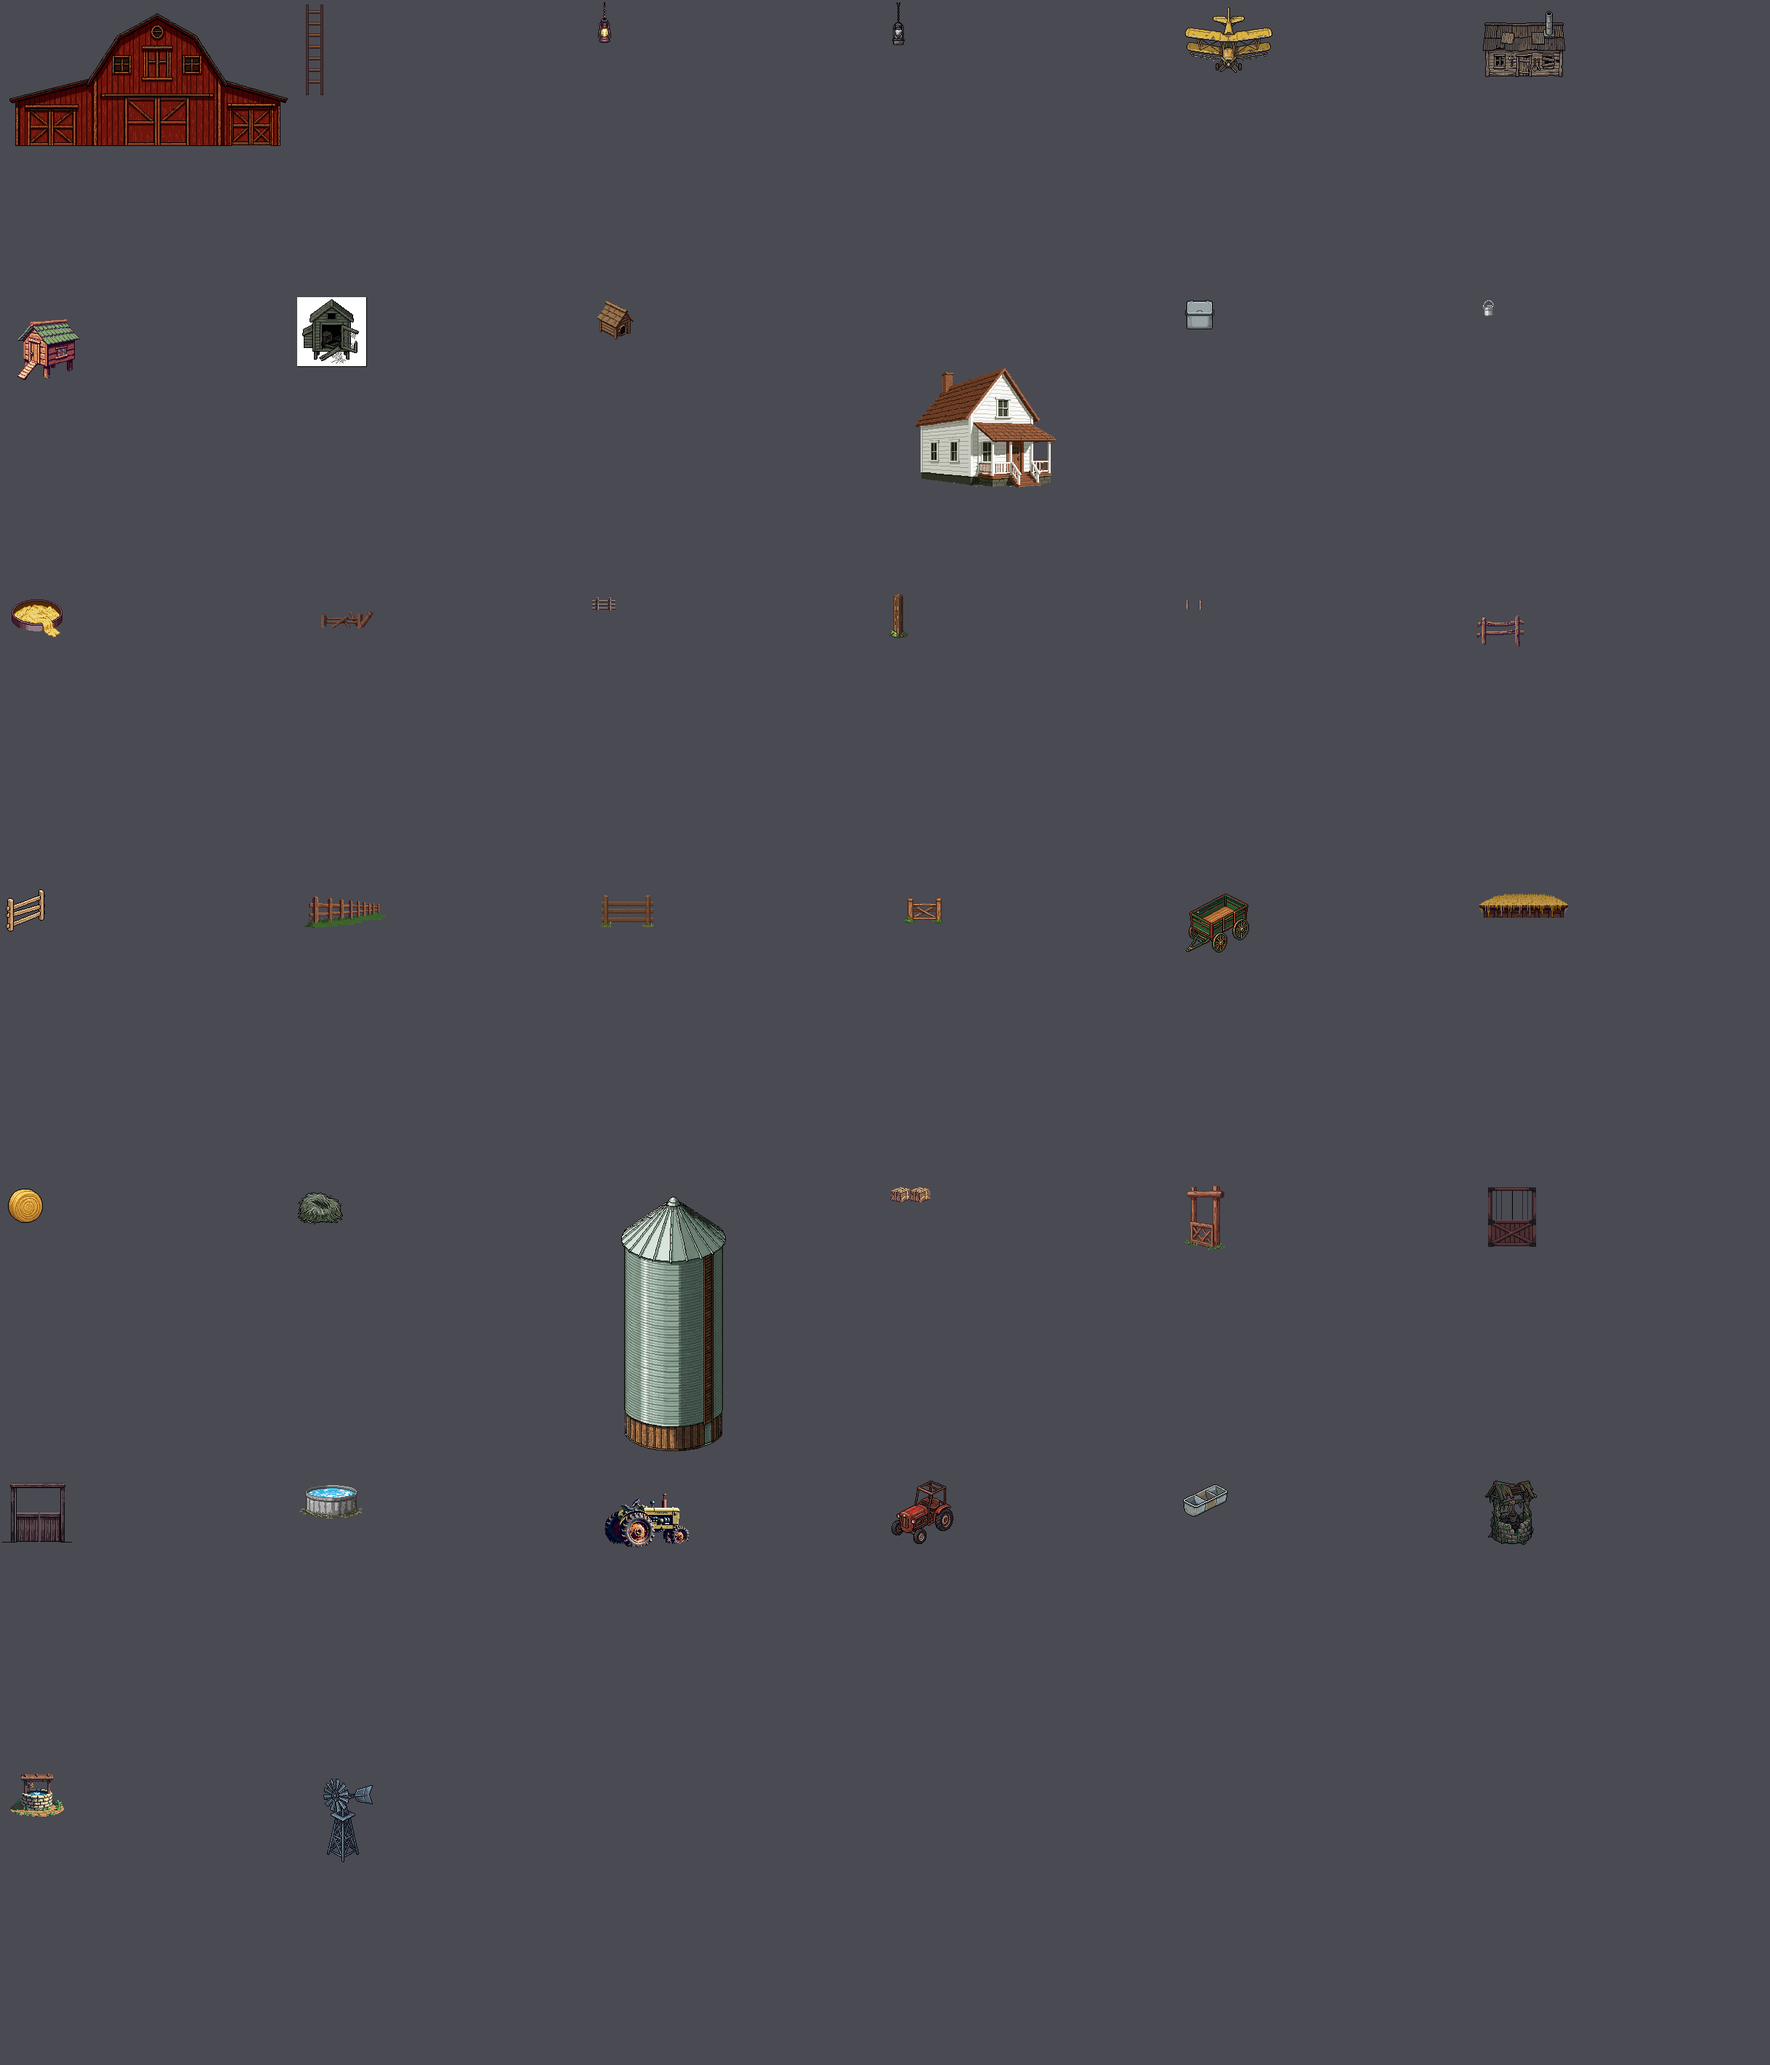
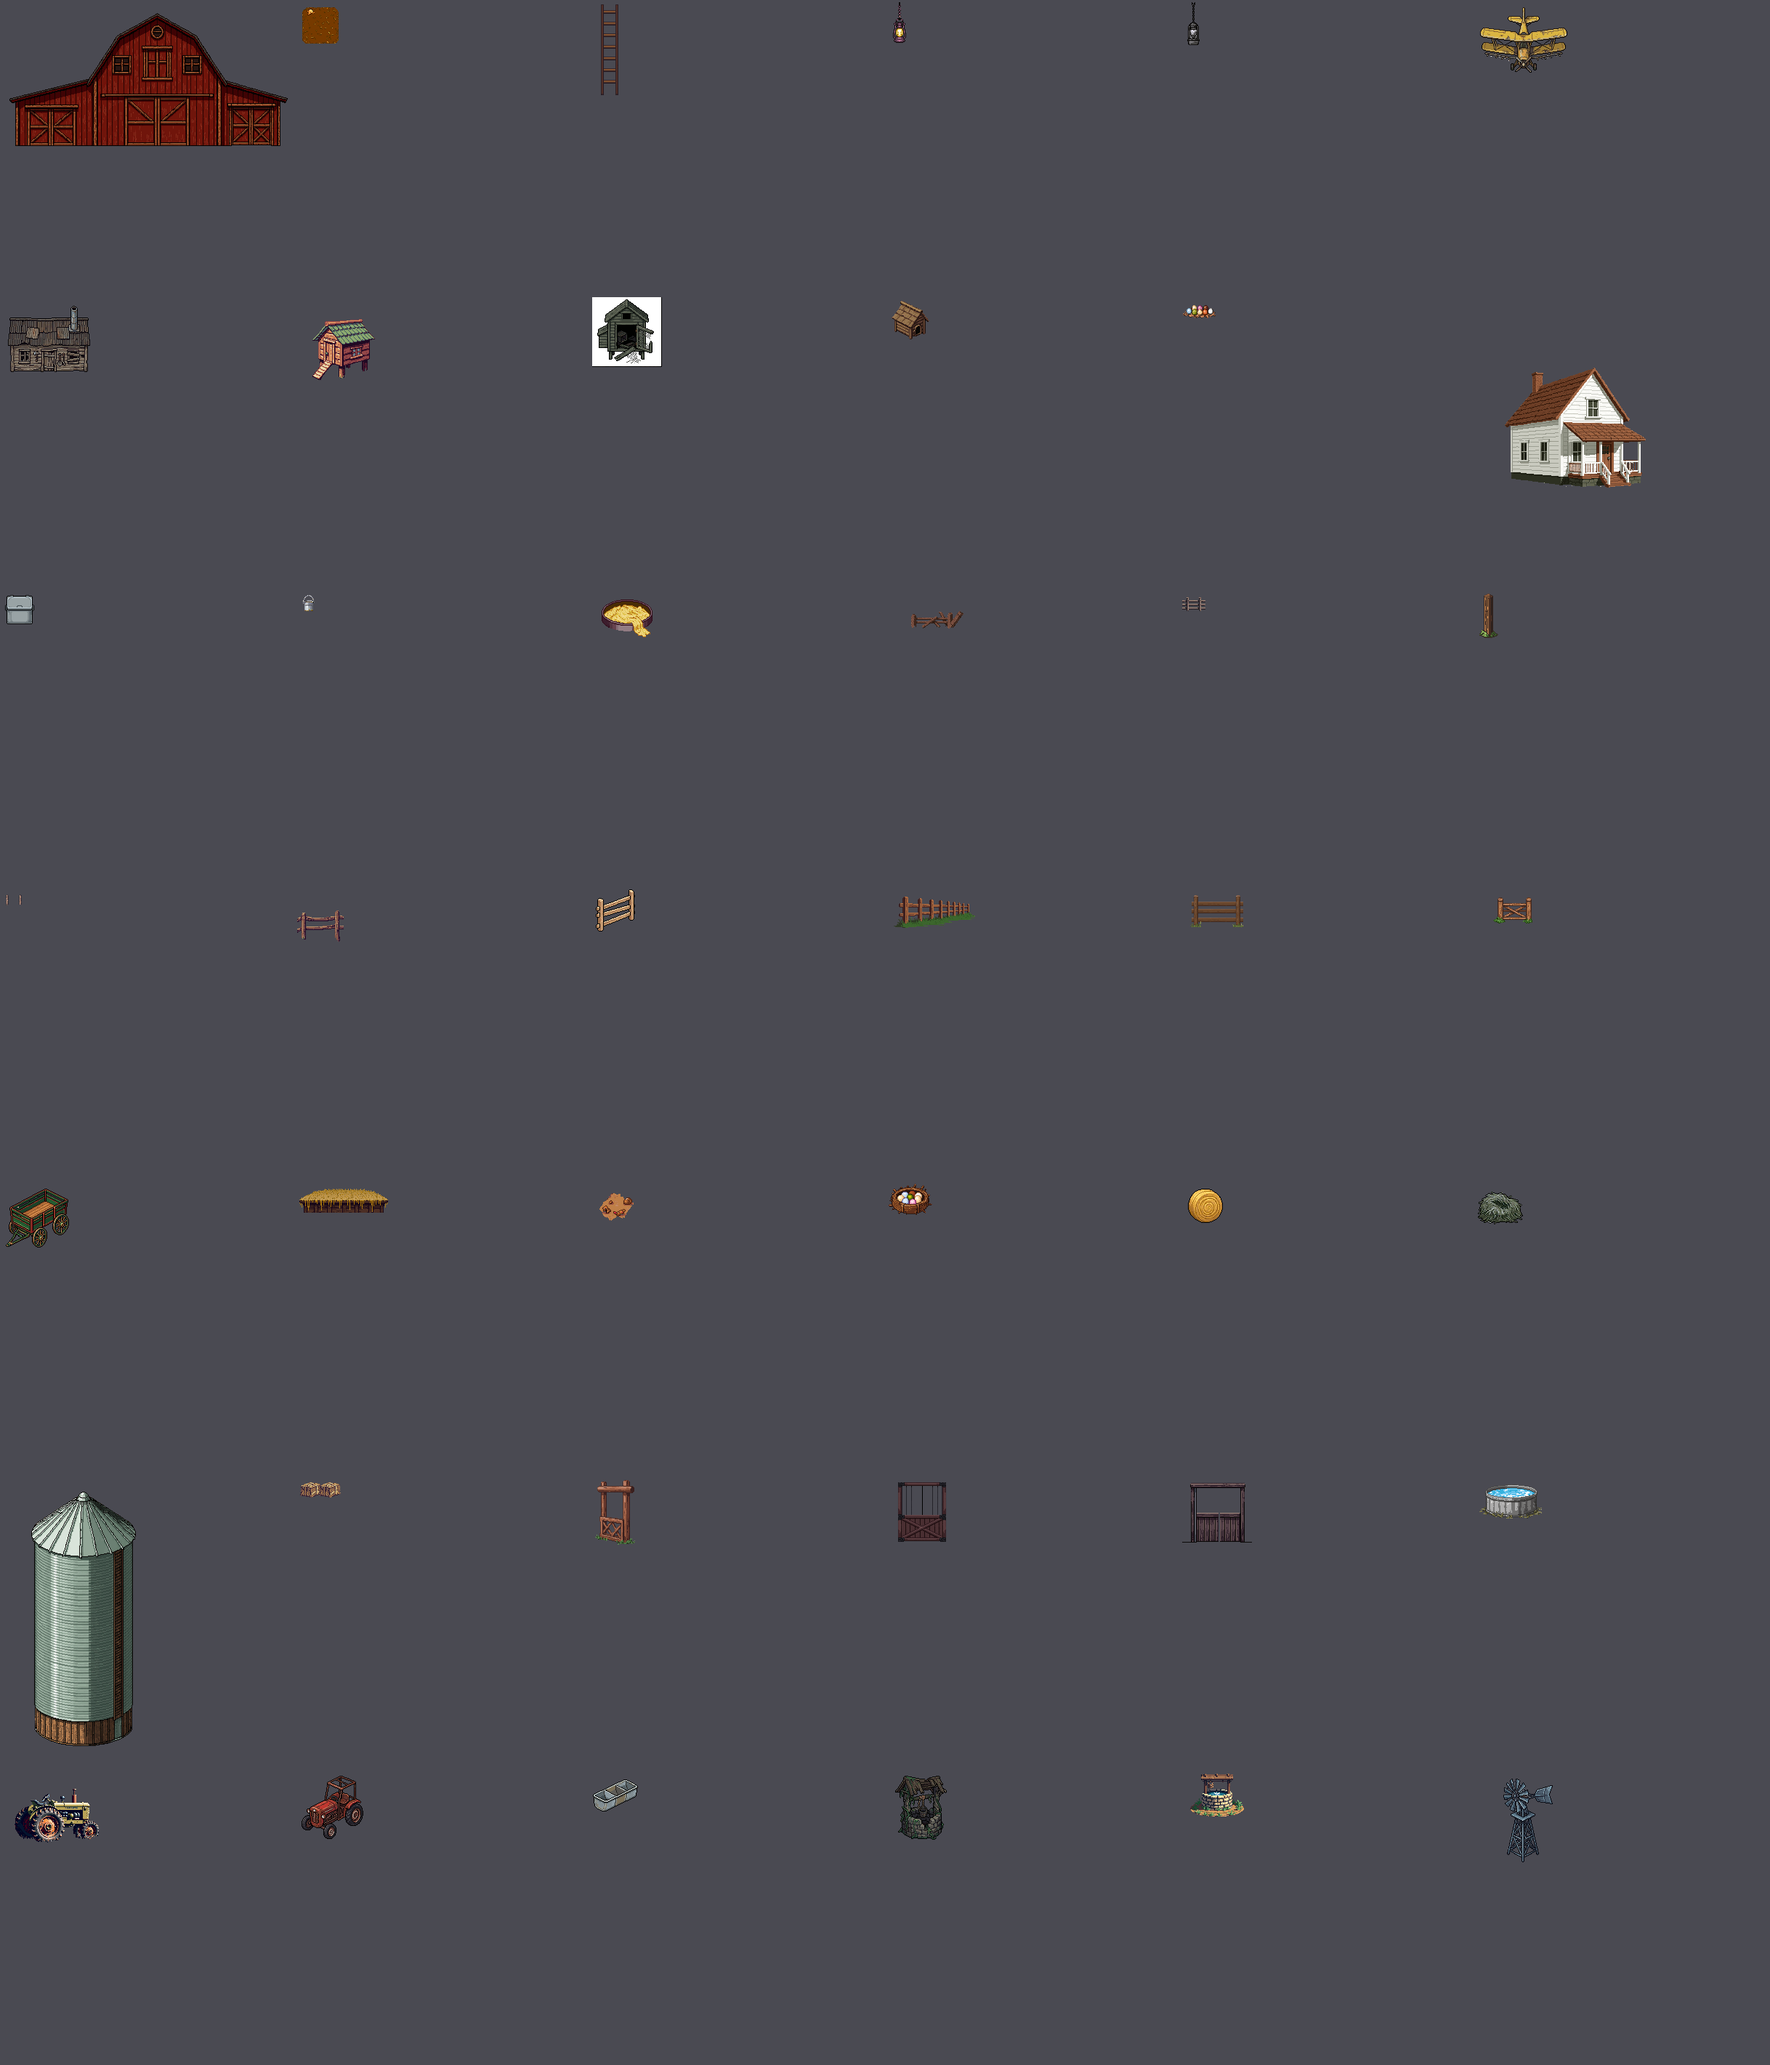
The flat-projection paddock, drum variety, and the barn's missing ground
**`pen.paddockFlat` is the reshoot Design asked for.** Floor quad 319 wide x 36
deep — depth/width 0.113, against the old paddockDirt's 0.457. Forced by asking
on a 400x160 canvas instead of 400x260: constraining geometry with the CANVAS
works where words about camera angle do not, which is the same lesson as the
fence, the ceiling and the treeline. It may be slightly flatter than the
0.20-0.25 target; it errs toward matching the buildings, which was the defect.

`pen.chickenRunFlat` is a partial failure and is marked as such: the wire mesh
reads as interior to the flood, so only 677 pixels punched and the quad came
back degenerate with near, left and right on one point. A mesh pen needs an
interior the flood can separate from the mesh. Recorded rather than shipped
quietly.

**Drum variety**, because two copies of one rank read as two neat lines and lost
the variety the scene had when drums were placed individually: `drumScatter`
(six at different angles, one on its side), `drumStack` (a pallet two high) and
the existing `drumRank`.

**The barn's ground**, which was the loudest gap: `ranch.barnFloor` (packed dirt
strewn with straw, tileable) and `ranch.muckTracks` (manure and hoof prints as a
flat decal). Every surface in that scene was a CSS rectangle.

Plus the multi-coloured eggs — pale blue, olive, pinkish cream, dark brown,
beige, white and speckled, which is what the breed roster actually lays: the
Ameraucana blue, an Olive Egger olive, the Leghorn white.
[…]

diff --git a/docs/ASSET_CATALOG.md b/docs/ASSET_CATALOG.md
@@ -2,7 +2,7 @@
 
 **Generated by `npm run catalog`. Do not hand-edit.**
 
-8021 frame keys in `public/atlas.png`.
+8029 frame keys in `public/atlas.png`.
 
 This is not `docs/PIXELLAB_INVENTORY.md`. That one lists what the PixelLab
 account holds and answers *"have we already generated this?"*. **This one lists
@@ -276,13 +276,14 @@ path and covers everything above; these still work.
 - `scene.scarecrowSwayStrip`
 - `scene.sheepGrazeStrip`
 
-## THE RANCH — generated buildings, vehicles, fencing, feed. USE THESE. — 38
+## THE RANCH — generated buildings, vehicles, fencing, feed. USE THESE. — 42
 
 ![ranch](catalog/ranch.png)
 
 | key | canvas | content | **draw at (w x h)** |
 |---|---|---|---|
 | `ranch.barn` | 400x224 | 383x183 | **440 x 210** |
+| `ranch.barnFloor` | 64x64 | 50x50 | **64 x 64** |
 | `ranch.barnLadder` | 48x128 | 24x125 | **26 x 135** |
 | `ranch.barnLantern` | 32x64 | 18x56 | **20 x 62** |
 | `ranch.barnLanternDark` | 32x64 | 17x59 | **20 x 69** |
@@ -291,6 +292,7 @@ path and covers everything above; these still work.
 | `ranch.coop` | 128x160 | 86x84 | **92 x 90** |
 | `ranch.coopBroken` | 96x96 | 96x96 | **80 x 80** |
 | `ranch.doghouse` | 64x64 | 52x53 | **44 x 45** |
+| `ranch.eggClutch` | 48x32 | 45x18 | **26 x 10** |
 | `ranch.farmhouse` | 256x320 | 194x165 | **330 x 281** |
 | `ranch.feedBin` | 48x48 | 40x40 | **37 x 37** |
 | `ranch.feedBucket` | 32x32 | 16x22 | **13 x 18** |
@@ -306,6 +308,8 @@ path and covers everything above; these still work.
 | `ranch.gateOpen` | 96x64 | 54x36 | **132 x 88** |
 | `ranch.hayWagon` | 96x96 | 87x81 | **146 x 136** |
 | `ranch.loftEdge` | 128x48 | 122x33 | **220 x 60** |
+| `ranch.muckTracks` | 64x64 | 47x38 | **64 x 52** |
+| `ranch.nestBox` | 64x48 | 60x43 | **40 x 29** |
 | `ranch.roundBale` | 64x64 | 48x47 | **55 x 54** |
 | `ranch.roundBaleRotted` | 64x64 | 62x45 | **55 x 40** |
 | `ranch.silo` | 224x400 | 144x350 | **146 x 355** |
